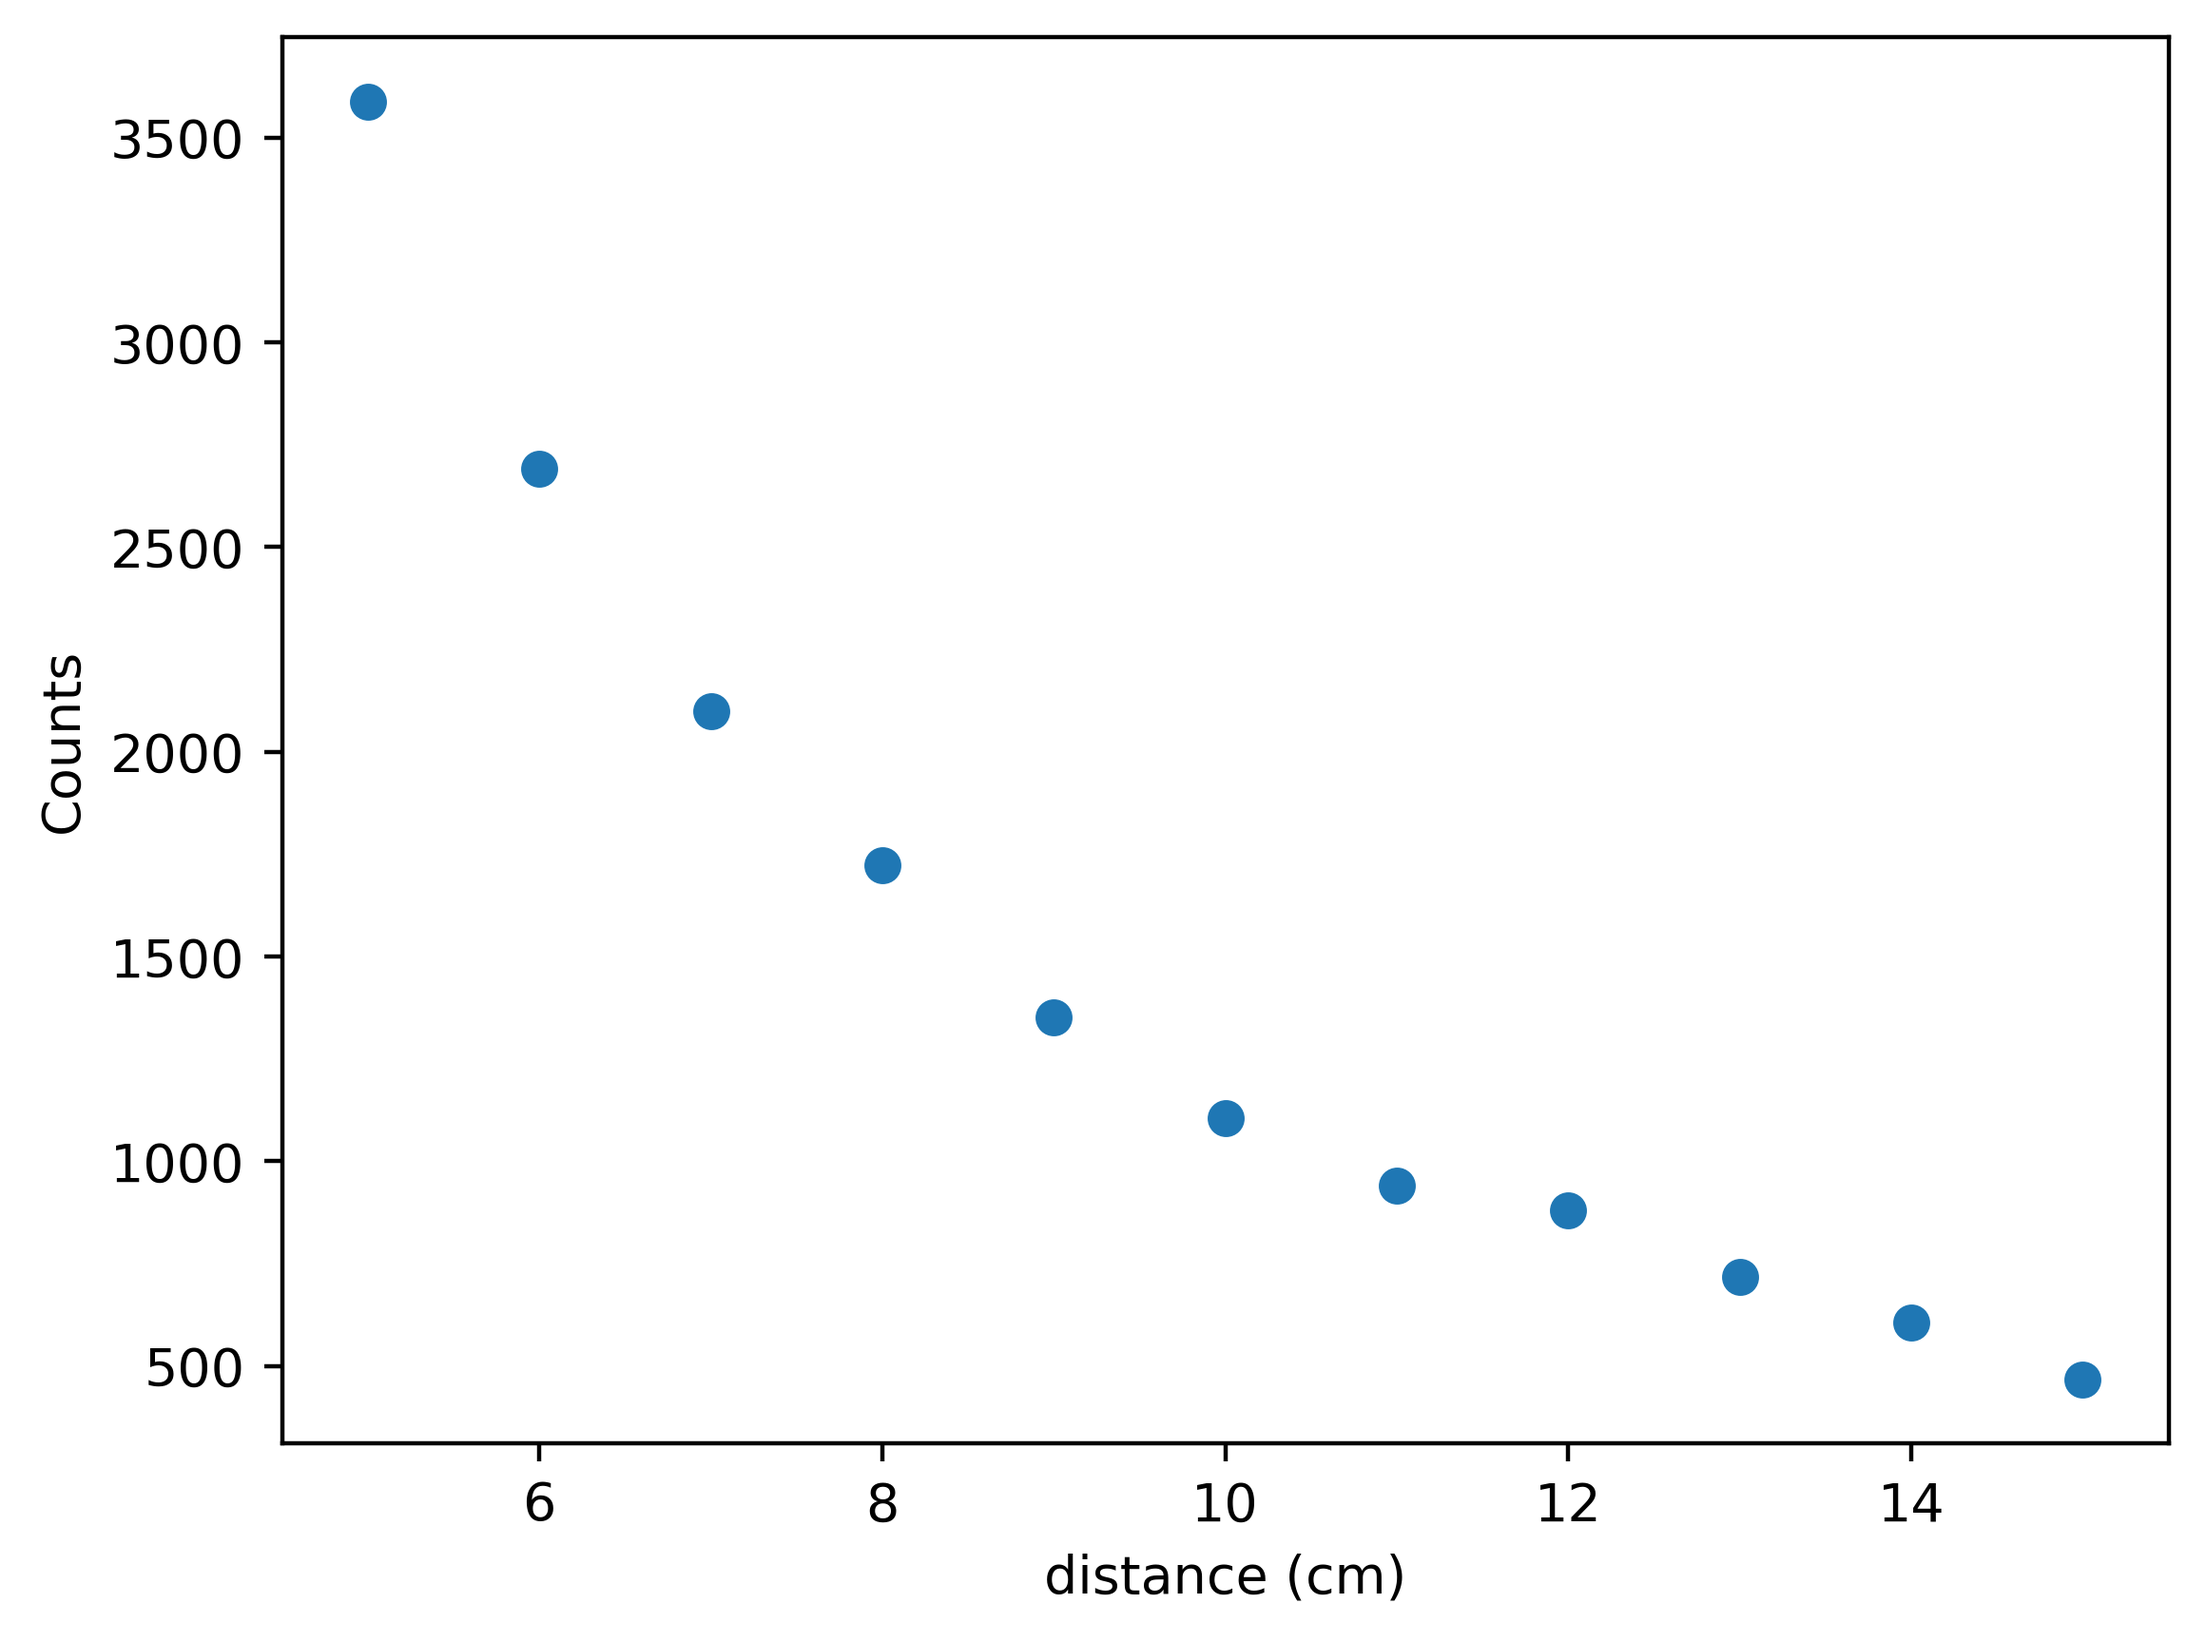
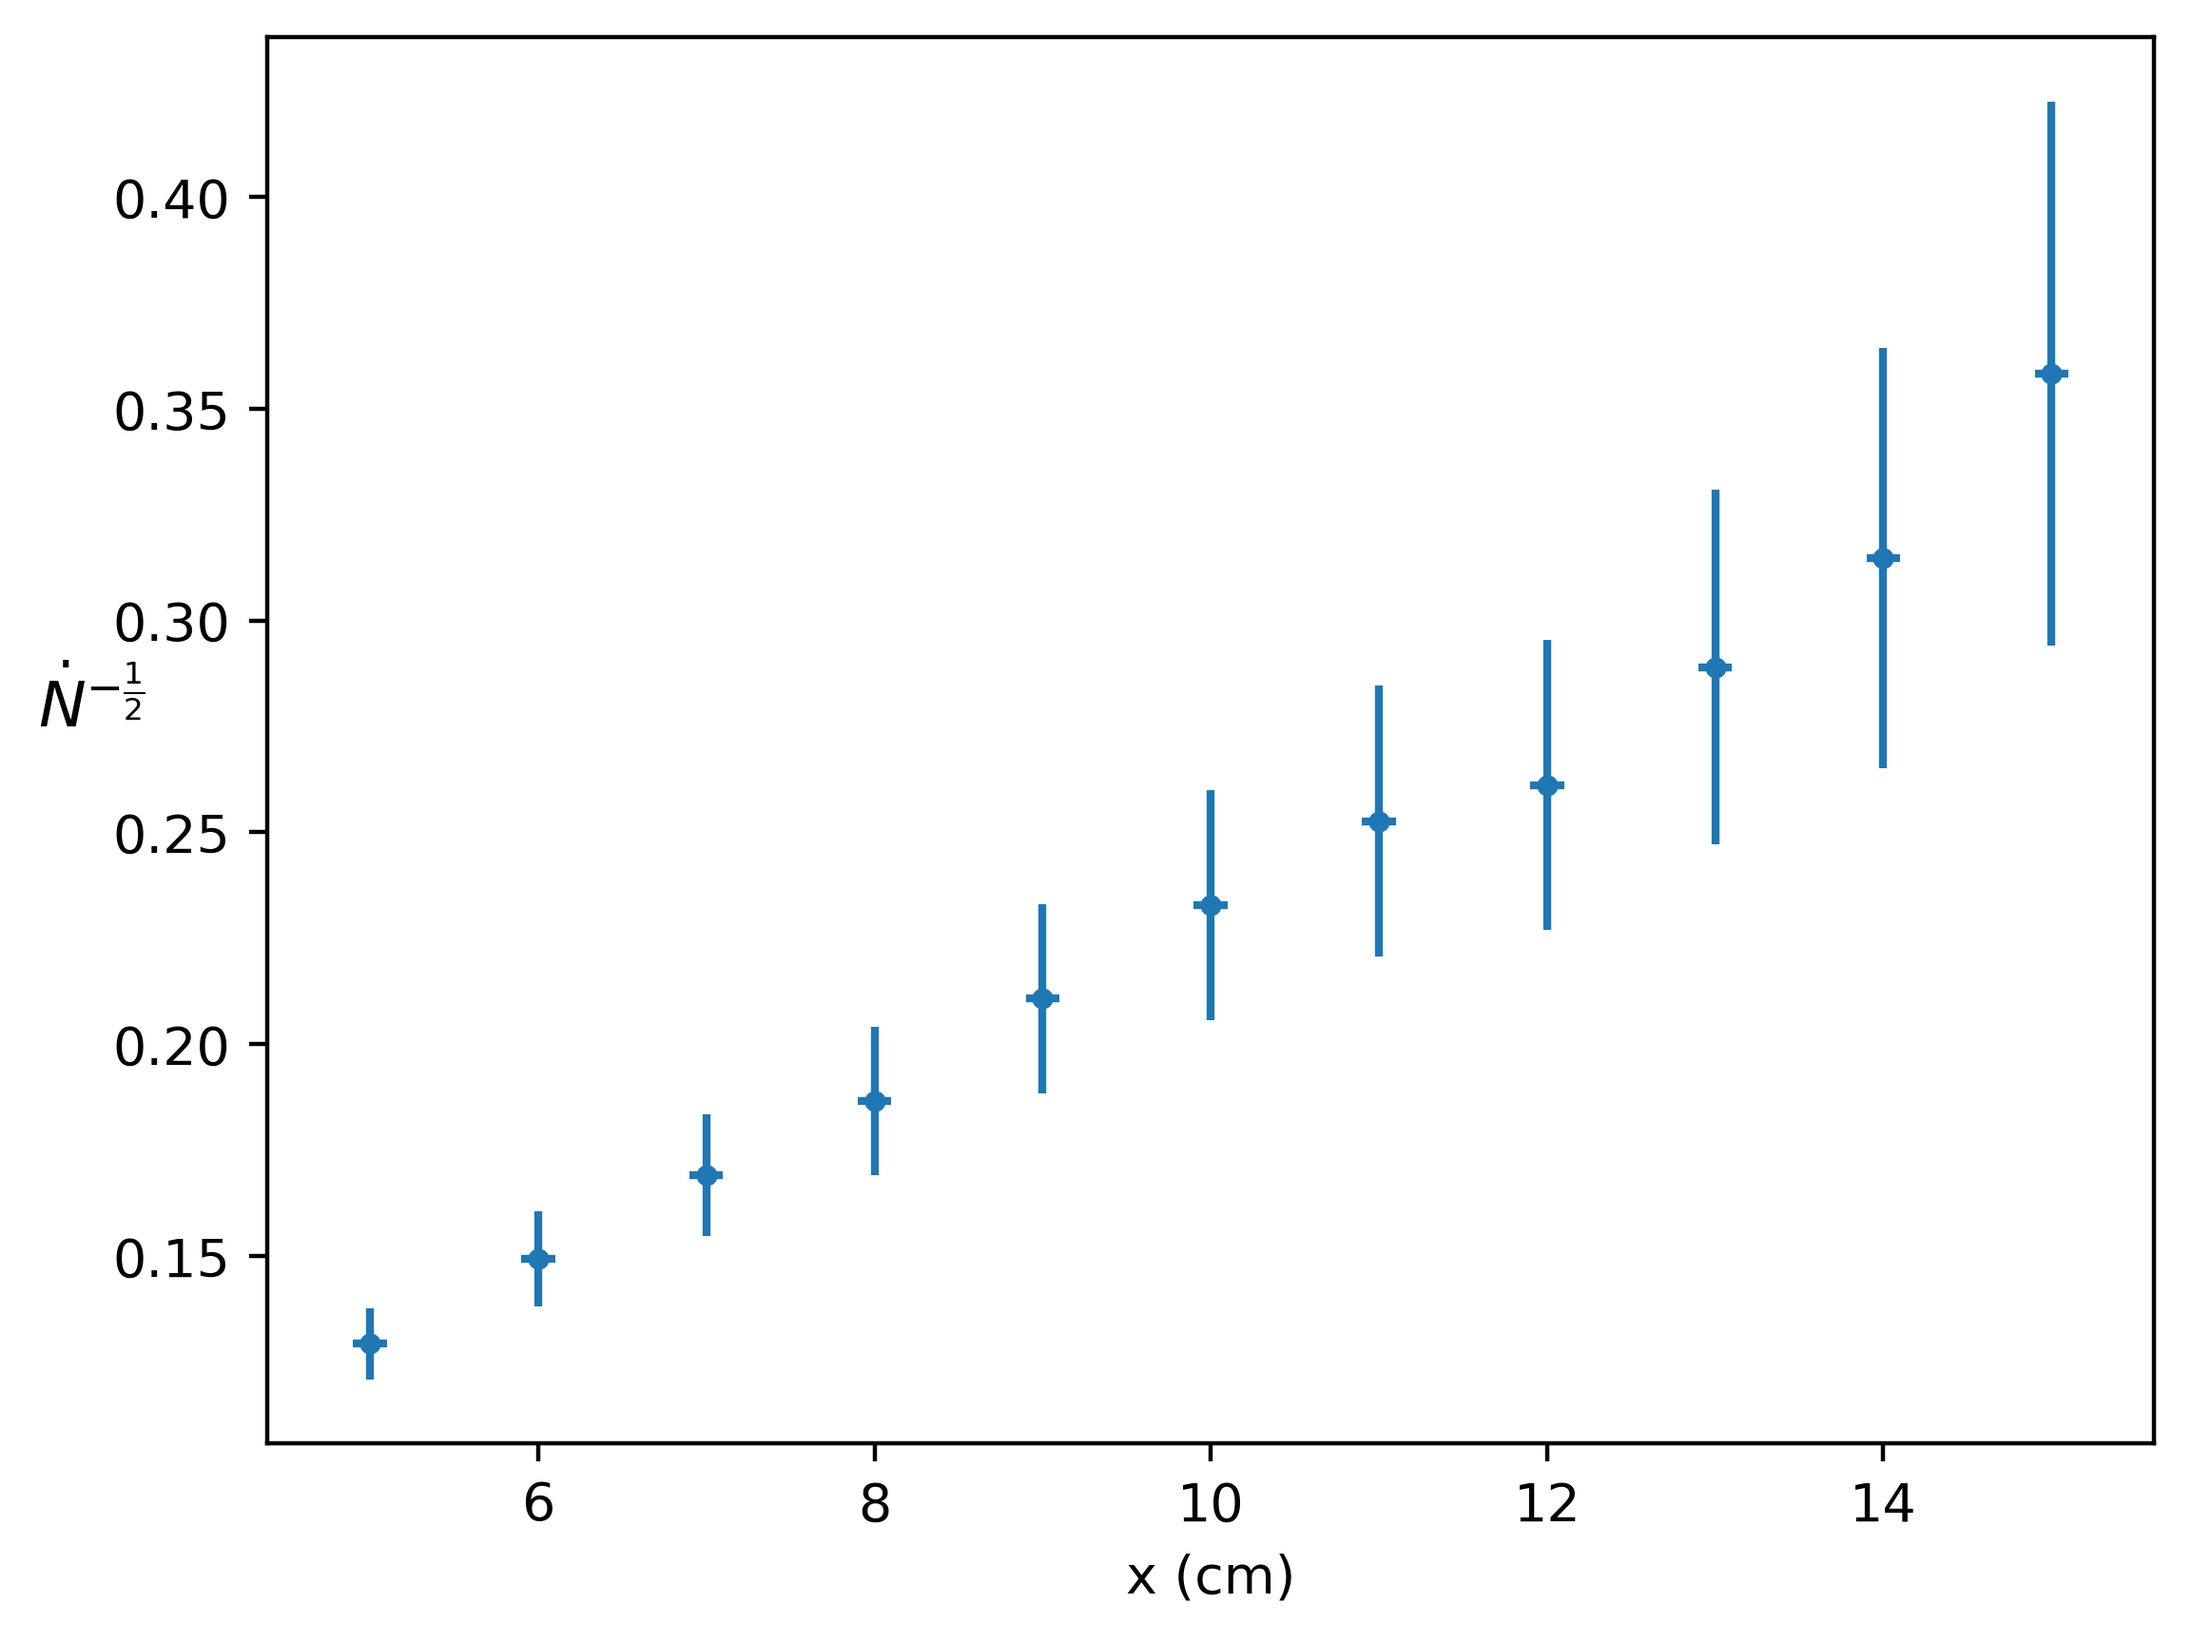
Computed and plotted Ndot^-0.5 vs x

diff --git a/dosimetry.py b/dosimetry.py
@@ -24,13 +24,13 @@ Distance measurements to arrays. counts measured for 60s
 '''
 distance=(distance_measurements.to_numpy()[:,0]).astype(np.float64)
 Cs_x_counts=(distance_measurements.to_numpy()[:,1]).astype(np.float64)
-Cs_x_N=Cs_x_counts-np.full(len(Cs_x_counts),background_per_minute)   #Background subtracted
+Cs_x_N=((Cs_x_counts-np.full(len(Cs_x_counts),background_per_minute) ) /60 ) #Background subtracted and converted to per second
 Co_x_counts=(distance_measurements.to_numpy()[:,2]).astype(np.float64)
-Co_x_N=Co_x_counts-np.full(len(Co_x_counts),background_per_minute)   #Background subtracted
+Co_x_N=((Co_x_counts-np.full(len(Co_x_counts),background_per_minute) ) /60 )  #Background subtracted and converted to per second
 Cs2_x_counts=(distance_measurements.to_numpy()[:,3]).astype(np.float64)
-Cs2_x_N=Cs2_x_counts-np.full(len(Cs2_x_counts),background_per_minute)   #Background subtracted
+Cs2_x_N=((Cs2_x_counts-np.full(len(Cs2_x_counts),background_per_minute) ) /60 )  #Background subtracted and converted to per second
 Na_x_counts=(distance_measurements.to_numpy()[:,4]).astype(np.float64)
-Na_x_N=Na_x_counts-np.full(len(Na_x_counts),background_per_minute)  #Background subtracted
+Na_x_N=((Na_x_counts-np.full(len(Na_x_counts),background_per_minute) ) /60 ) #Background subtracted and converted to per second
 
 '''
 shielding measurements to array
@@ -48,30 +48,48 @@ neutron_tf=(neutron_activity.to_numpy()[:,1]).astype(np.float64)
 neutron_dt=(neutron_activity.to_numpy()[:,2]).astype(np.float64)
 
 '''
+Functions for errors etc
+'''
+#Ndot ^-0.5, takes N per second
+def Ndot_exponent(N):
+    y=N**(-0.5)
+    return y
+
+#error in Ndot ^-1/2, takes N, t and error in t
+def err_Ndot_exponent(N,t,dt):
+    Ndot_exp=Ndot_exponent(N)
+    dN=np.sqrt(N)
+    y=Ndot_exp*np.sqrt(((-0.5*dN)/N)**2+((-0.5*dt)/t)**2)
+    return y
+'''
 Plotting distance measurements
 '''
+t=1
+dt=1/60
+dx=0.1
+
 plt.figure(0)
-plt.scatter(distance,Cs_x_N)
-plt.xlabel('distance (cm)')
-plt.ylabel('Counts')
+plt.errorbar(distance,Ndot_exponent(Cs_x_N),err_Ndot_exponent(Cs_x_N,t,dt),dx,'.')
+plt.xlabel('x (cm)')
+plt.ylabel(r'$\dot N^{-\frac{1}{2}}$',fontsize='large',rotation='horizontal')
 plt.savefig('plots/Cs_dist.png',dpi=400,bbox_inches='tight')
 
 plt.figure(1)
-plt.scatter(distance,Co_x_N)
-plt.xlabel('distance (cm)')
-plt.ylabel('Counts')
+plt.errorbar(distance,Ndot_exponent(Co_x_N),err_Ndot_exponent(Co_x_N,t,dt),dx,'.')
+plt.xlabel('x (cm)')
+plt.ylabel(r'$\dot N^{-\frac{1}{2}}$',fontsize='large',rotation='horizontal')
 plt.savefig('plots/Co_dist.png',dpi=400,bbox_inches='tight')
 
 plt.figure(2)
-plt.scatter(distance,Cs2_x_N)
-plt.xlabel('distance (cm)')
-plt.ylabel('Counts')
+plt.errorbar(distance,Ndot_exponent(Cs2_x_N),err_Ndot_exponent(Cs2_x_N,t,dt),dx,'.')
+plt.xlabel('x (cm)')
+plt.ylabel(r'$\dot N^{-\frac{1}{2}}$',fontsize='large',rotation='horizontal')
 plt.savefig('plots/Cs2_dist.png',dpi=400,bbox_inches='tight')
 
 plt.figure(3)
-plt.scatter(distance,Na_x_N)
-plt.xlabel('distance (cm)')
-plt.ylabel('Counts')
+plt.errorbar(distance,Ndot_exponent(Na_x_N),err_Ndot_exponent(Na_x_N,t,dt),dx,'.')
+plt.xlabel('x (cm)')
+plt.ylabel(r'$\dot N^{-\frac{1}{2}}$',fontsize='large',rotation='horizontal')
 plt.savefig('plots/Na_dist.png',dpi=400,bbox_inches='tight')
 
 '''
